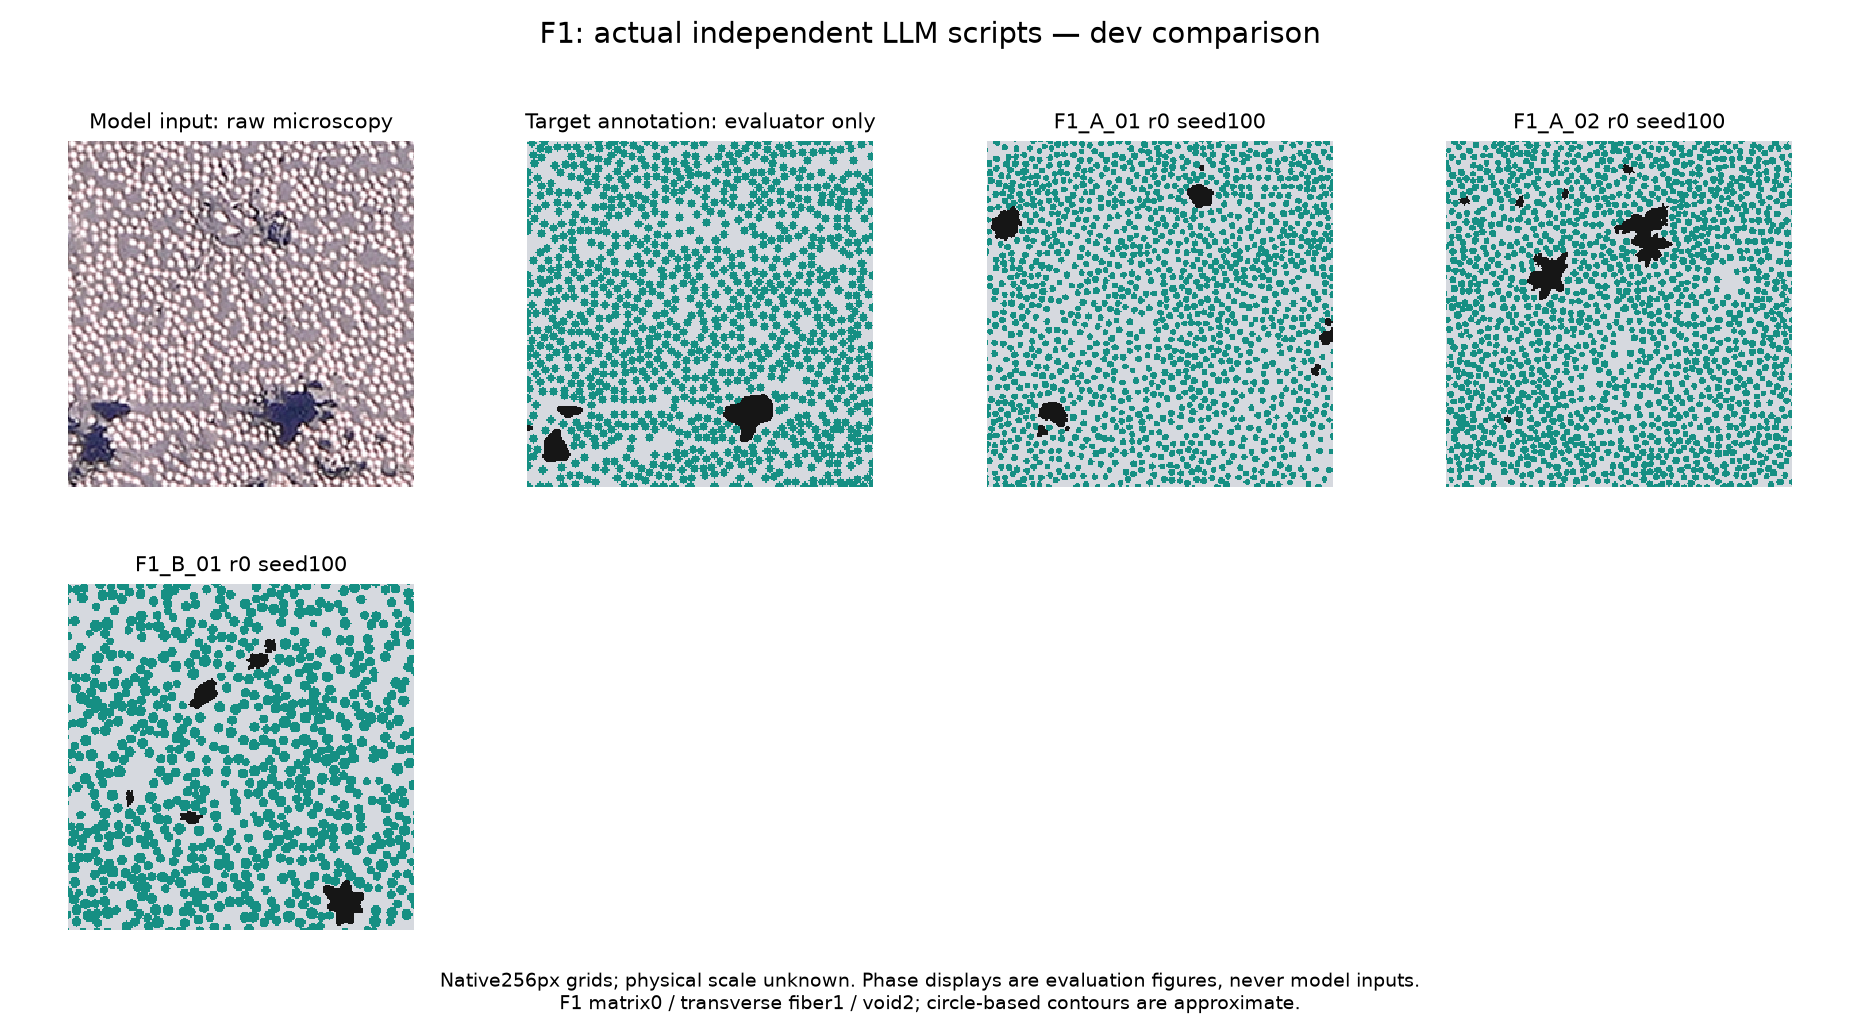
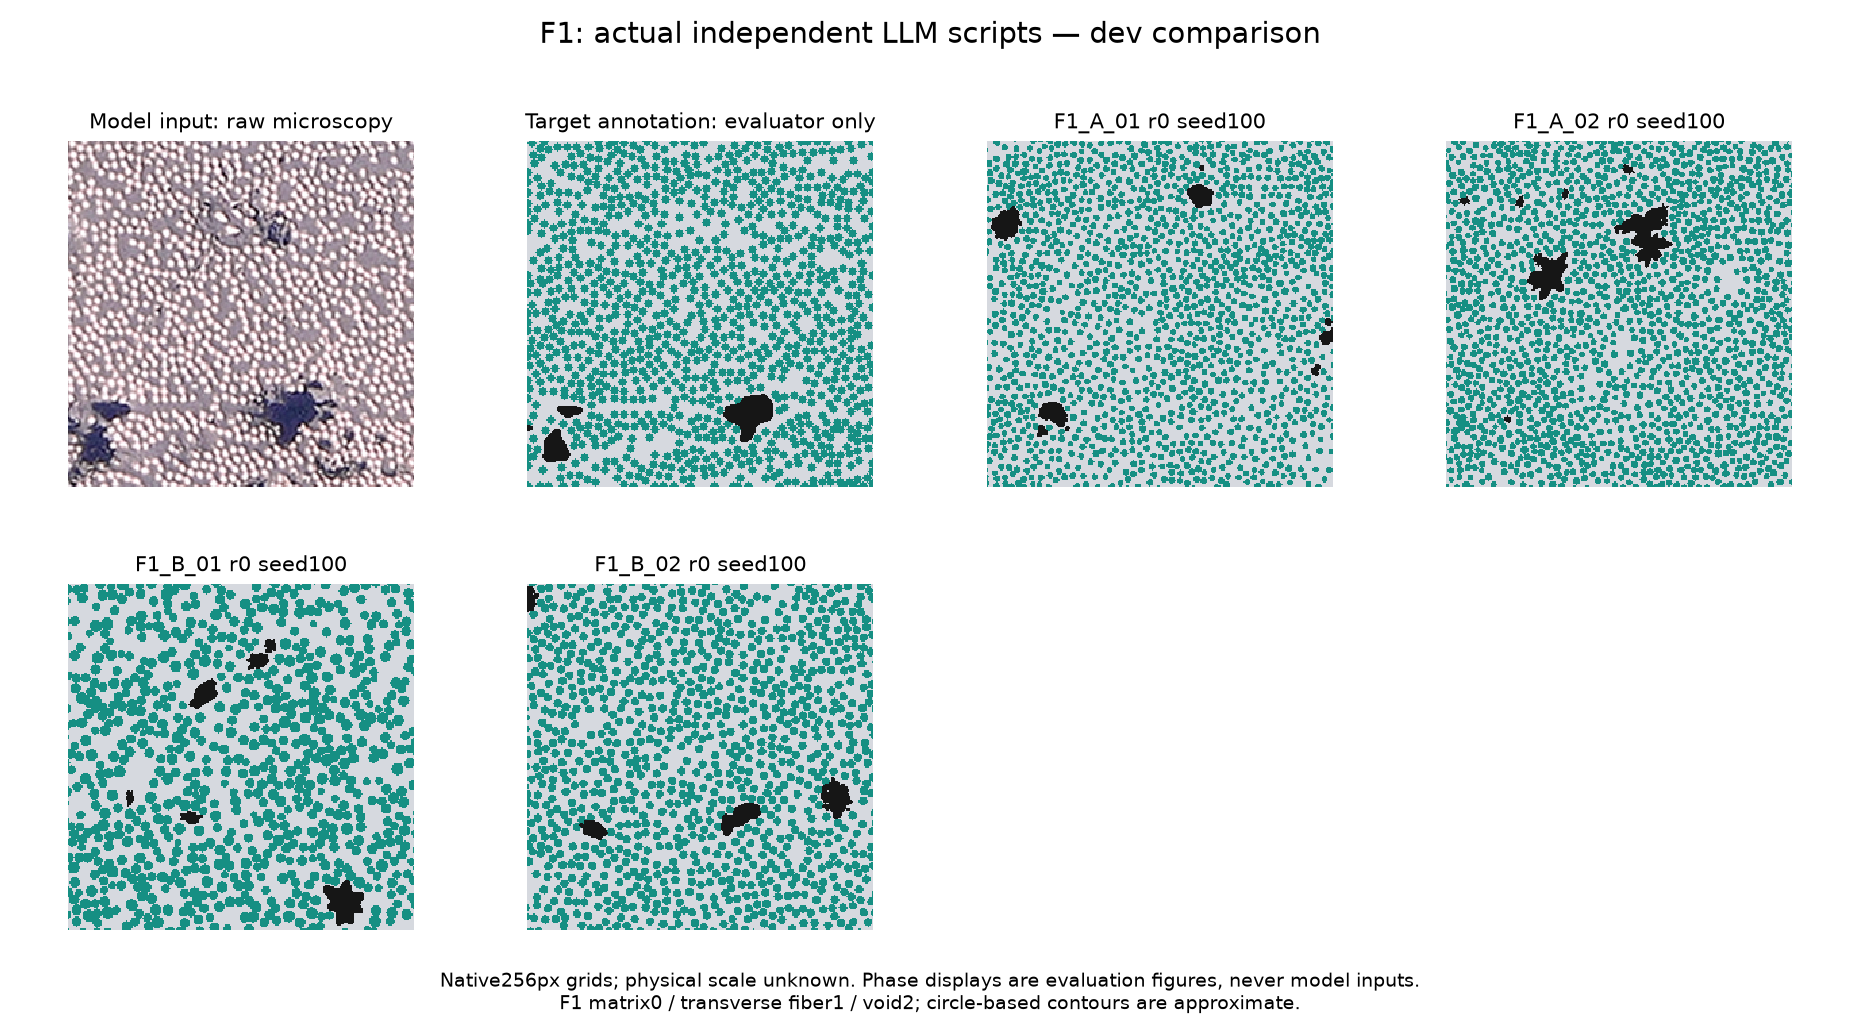
report(v070): checkpoint completed A and B conditions with eighty development outputs

Changed region(s): [[0.2806, 0.5256, 0.4677, 0.8966]]

diff --git a/docs/pipeline_v0.7.0/run_002_real_microscopy/STATUS.md b/docs/pipeline_v0.7.0/run_002_real_microscopy/STATUS.md
@@ -1,10 +1,10 @@
-# Real microscopy experiment: seven genuine scripts completed; final descriptor response pending
+# Real microscopy experiment: eight genuine scripts completed; controlled feedback underway
 
-P3_A_01, F1_A_01, P3_A_02 and F1_A_02 are genuine independent ordinary-ChatGPT initial scripts. Complete unedited code and exact prompts are retained, and each script produced ten valid, repeatable development outputs on seeds100-109. These are four independent scripts and40 nested realizations, not40 LLM trials. No feedback revision or heldout output has run yet. Three B scripts have also completed ten valid outputs each: P3_B_01, F1_B_01 and P3_B_02. Seven independent scripts and70 nested development outputs are now complete. Five initial scripts and four registered C revisions remain to capture. See RESULTS.md for per-script quantitative tables and fixed-seed reference/generated figures.
+The four A (image-only) and four B (image-plus-descriptor) trials are complete: eight independent ordinary-ChatGPT scripts, each with ten valid repeatable development realizations on seeds100-109. These80 seed outputs are nested within eight independent trials. Four C parent scripts and four paired revisions remain. No heldout outputs have run. Exact prompts, actual unedited code, interface receipts, seed arrays and quantitative results are preserved. See RESULTS.md for per-script tables and fixed-seed reference/generated figures.
 
 The approved P3+F1 contracts, descriptor groups, normalization scales and disjoint seeds remain frozen in commit a59a3e8. P3 retains native1/5, with provisional phase5, explicit derived working map1->0 and5->1, HorizontalFlip provenance and morphology-selection bias. F1 retains original C/PEEK pixels and matrix0/fiber1/void2 with transverse annotation-region descriptors and approximate-circle uncertainty. Masks remain evaluator-only. No image overlays, displayed64-pixel rulers, physical calibration or mechanical properties were introduced.
 
-F1_B_02 has now been submitted in a fresh ordinary ChatGPT chat and is awaiting capture. Complete B and C trials in the registered order, including one measured development-feedback revision per C script. Preserve full responses without manual repairs; never count prepared packets or seeds as independent LLM attempts. Heldout execution stays locked until all scripts/revisions are frozen. File the completed chats in Pipeline Tests after collection; that browser organization is still pending.
+P3_C_01 has now been submitted in a fresh ordinary ChatGPT chat and is awaiting capture. Complete C trials in the registered order, including one measured development-feedback revision per C script. Preserve full responses without manual repairs; never count prepared packets or seeds as independent LLM attempts. Heldout execution stays locked until all scripts/revisions are frozen. File the completed chats in Pipeline Tests after collection; that browser organization is still pending.
 
 The prior graphics-capture blocker cleared after the user restored the visible Windows display and Chrome. Browser control resumed successfully and F1_A_02 was captured and evaluated. The historical THREE_SCRIPT_CHECKPOINT.json preserves the earlier blocker evidence. No Windows authentication/security settings were changed.
 
@@ -12,4 +12,4 @@ When control is restored, read the current Chrome URL before input and use the e
 
 Research commits: fa1638c (P3_A_01),6d07ace (F1_A_01),3cec64f (actual report/figures),2fbc47c (P3_A_02). Source/capture/output hashes and all frozen hashes pass;360 previous evidence files are unchanged. No ANSYS, mechanical optimization or automatic push.
 
-Source review identified model-authored explicit boundary-area allocation in P3_B_01 and P3_B_02, and internal best-of-four visible-target packing selection in F1_B_01. These behaviors are retained without repairs and must be considered when interpreting descriptor agreement; internal candidates are not independent model trials.
+Source review identified model-authored explicit boundary-area allocation in P3_B_01 and P3_B_02, and internal best-of-four visible-target packing selection in F1_B_01 and best-of-seven selection in F1_B_02. These behaviors are retained without repairs and must be considered when interpreting descriptor agreement; internal candidates are not independent model trials.

diff --git a/docs/pipeline_v0.7.0/run_002_real_microscopy/RESULTS.md b/docs/pipeline_v0.7.0/run_002_real_microscopy/RESULTS.md
@@ -1,12 +1,13 @@
 # P3 + F1 real microscopy LLM pilot
 
-Actual independently returned initial scripts: **7**; paired feedback revisions: **0**. Submission events: 8. Prepared initial packets: 12; unexecuted packets are not trials.
+Actual independently returned initial scripts: **8**; paired feedback revisions: **0**. Submission events: 8. Prepared initial packets: 12; unexecuted packets are not trials.
 
 | Script | Revision | Seeds | Valid / requested | Failures | Visible error | Hidden error | Hamming diversity |
 |---|---:|---|---:|---:|---:|---:|---:|
 | F1_A_01 | 0 | dev | 10/10 | 0 | 0.3322 | 0.2804 | 0.5009 |
 | F1_A_02 | 0 | dev | 10/10 | 0 | 0.1996 | 0.2488 | 0.5141 |
 | F1_B_01 | 0 | dev | 10/10 | 0 | 0.3239 | 0.2183 | 0.5162 |
+| F1_B_02 | 0 | dev | 10/10 | 0 | 0.03205 | 0.1056 | 0.5139 |
 | P3_A_01 | 0 | dev | 10/10 | 0 | 0.1466 | 0.101 | 0.4168 |
 | P3_A_02 | 0 | dev | 10/10 | 0 | 0.1902 | 0.08583 | 0.4156 |
 | P3_B_01 | 0 | dev | 10/10 | 0 | 0.04088 | 0.08736 | 0.3941 |
@@ -106,6 +107,19 @@ Errors are absolute descriptor differences divided by prospectively fixed scales
 | F1_B_01/r0/dev | void_regions (hidden) | 4 | 6 ± 0 | 10/10 |
 | F1_B_01/r0/dev | void_diameter_mean_px (hidden) | 21.9 | 15.94 ± 0.9728 | 10/10 |
 | F1_B_01/r0/dev | void_S2_x_8 (hidden) | 0.01148 | 0.009429 ± 0.0008175 | 10/10 |
+| F1_B_02/r0/dev | fiber_fraction (visible) | 0.4527 | 0.4503 ± 0.005837 | 10/10 |
+| F1_B_02/r0/dev | void_fraction (visible) | 0.01958 | 0.01854 ± 0.003588 | 10/10 |
+| F1_B_02/r0/dev | complete_fiber_regions (visible) | 464 | 475 ± 19.09 | 10/10 |
+| F1_B_02/r0/dev | fiber_diameter_mean_px (visible) | 7.905 | 7.902 ± 0.0842 | 10/10 |
+| F1_B_02/r0/dev | fiber_diameter_std_px (visible) | 2.812 | 2.805 ± 0.1927 | 10/10 |
+| F1_B_02/r0/dev | fiber_nearest_neighbor_mean_px (hidden) | 8.346 | 8.513 ± 0.08785 | 10/10 |
+| F1_B_02/r0/dev | fiber_S2_x_8 (hidden) | 0.2296 | 0.2133 ± 0.006397 | 10/10 |
+| F1_B_02/r0/dev | fiber_S2_y_8 (hidden) | 0.2138 | 0.2124 ± 0.004388 | 10/10 |
+| F1_B_02/r0/dev | matrix_fiber_interface (hidden) | 0.3951 | 0.3305 ± 0.005095 | 10/10 |
+| F1_B_02/r0/dev | matrix_lcc (hidden) | 0.93 | 0.9874 ± 0.002568 | 10/10 |
+| F1_B_02/r0/dev | void_regions (hidden) | 4 | 4 ± 0.6325 | 10/10 |
+| F1_B_02/r0/dev | void_diameter_mean_px (hidden) | 21.9 | 20.28 ± 3.187 | 10/10 |
+| F1_B_02/r0/dev | void_S2_x_8 (hidden) | 0.01148 | 0.009895 ± 0.002932 | 10/10 |
 
 ## Figures and interpretation
 
